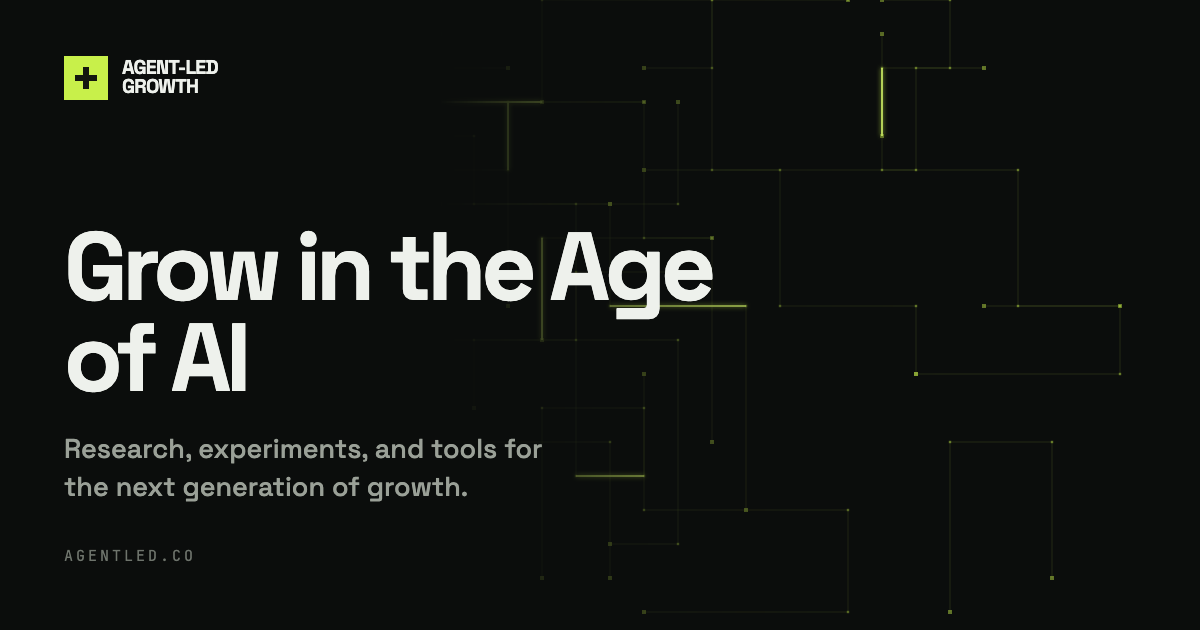
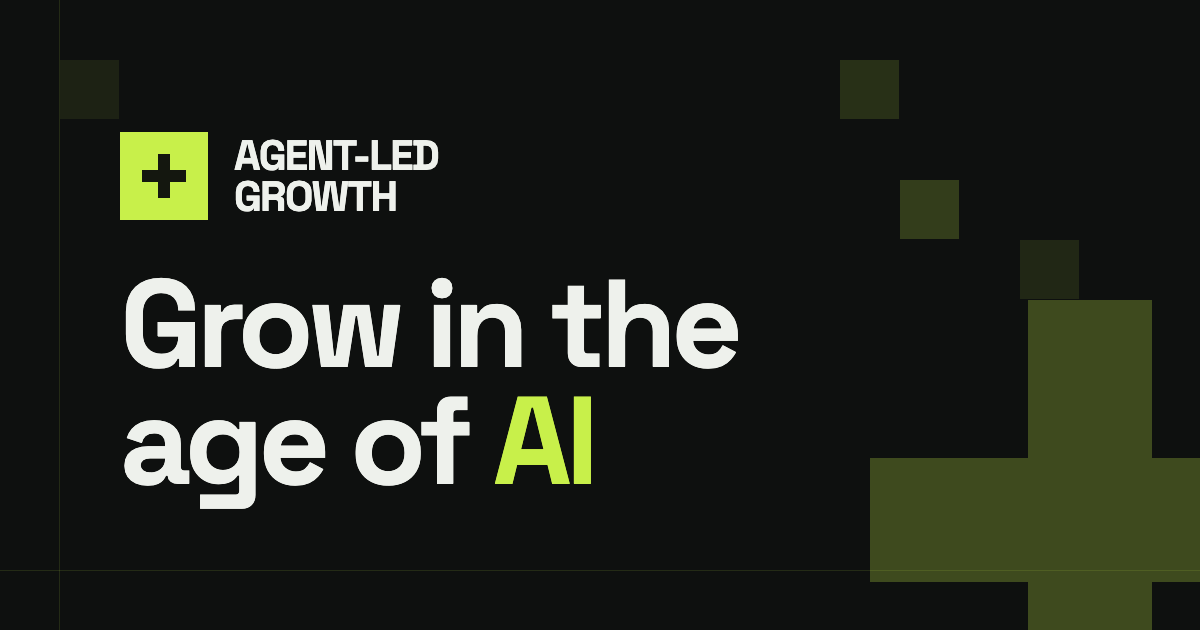
feat: use the designed OG share image
Replaces the generated placeholder card with the designed 1200x630 asset.
Verified fully opaque before shipping — transparency in an OG image
composites unpredictably across clients.

Removes scripts/og-card.html and its regenerate command from the README. It
was a footgun: running the documented command would have silently
overwritten the designed asset with the placeholder. The OG image is now a
design asset with no build step. scripts/icon-card.html stays, since the app
icons are still generated from the mark.

diff --git a/README.md b/README.md
@@ -159,14 +159,34 @@ treated as a mismatch and can cost the rich result.
 
 ### Share image
 
-`public/og.png`, 1200×630. Regenerate by rendering the card with headless
-Chrome:
+`public/og.png`, 1200×630 — a **design asset, not generated**. Replace the file
+to change it; nothing in the repo rebuilds it.
+
+Constraints if you swap it:
+
+- 1200×630, PNG or JPG, **never SVG**, and **fully opaque** — transparency
+  composites unpredictably (some clients onto white, others onto black).
+- Under ~300KB. WhatsApp silently skips images larger than that.
+- Keep text inside the middle ~80%: WhatsApp and Telegram crop toward centre in
+  compact previews, and Slack and Discord overlay UI bottom-right.
+
+Every platform reads this one image — there is no per-platform variant.
+LinkedIn and Facebook cache aggressively, so after changing it, force a refresh
+via LinkedIn Post Inspector and the Facebook Sharing Debugger.
+
+### App icons
+
+Generated from the lockup mark via `scripts/icon-card.html`:
 
 ```bash
-"/Applications/Google Chrome.app/Contents/MacOS/Google Chrome" --headless=new \
-  --disable-gpu --virtual-time-budget=4000 --window-size=1200,630 \
-  --screenshot=public/og.png "file://$PWD/scripts/og-card.html"
+CHROME="/Applications/Google Chrome.app/Contents/MacOS/Google Chrome"
+"$CHROME" --headless=new --disable-gpu --force-device-scale-factor=1 \
+  --screenshot=src/app/apple-icon.png --window-size=180,180 \
+  "file://$PWD/scripts/icon-card.html"
 ```
+
+`?safe=1` shrinks the glyph into the Android adaptive-icon safe zone, used for
+`public/icons/icon-maskable-512.png`.
 
 ### Favicon
 
